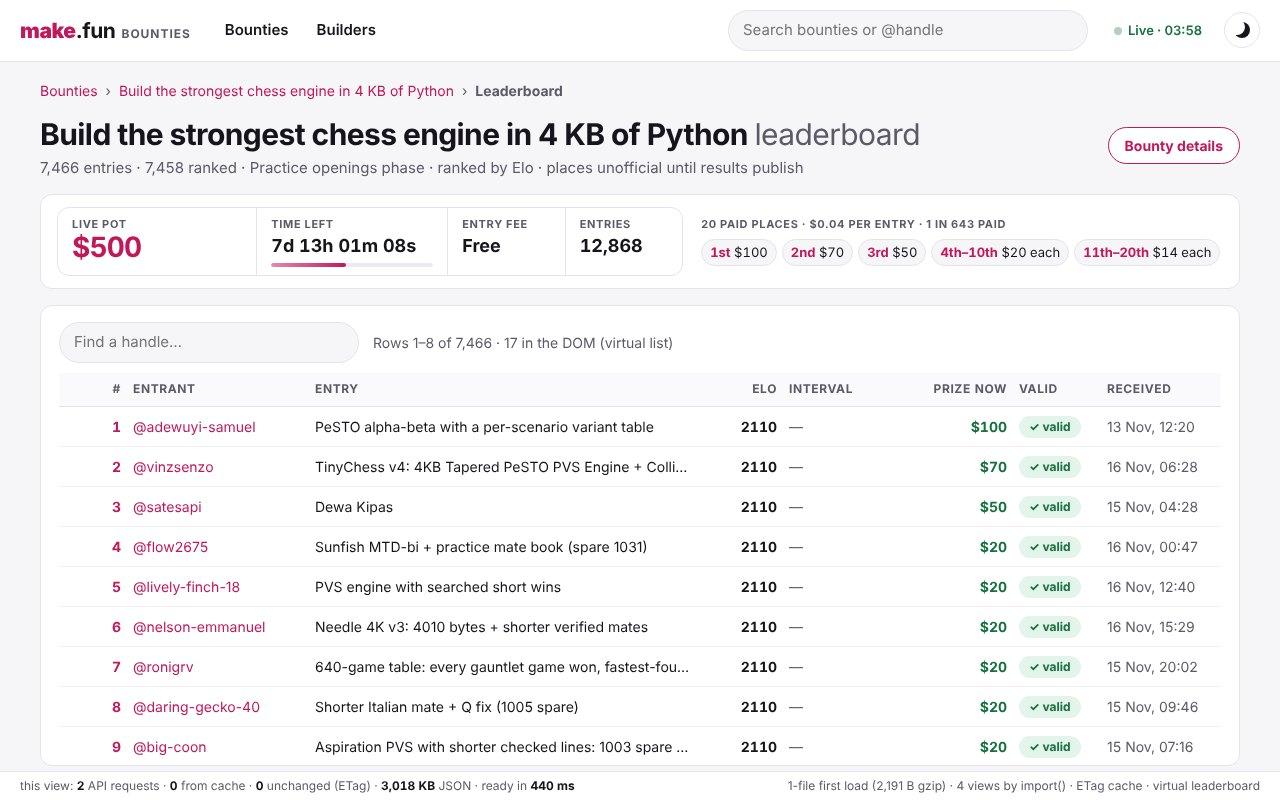
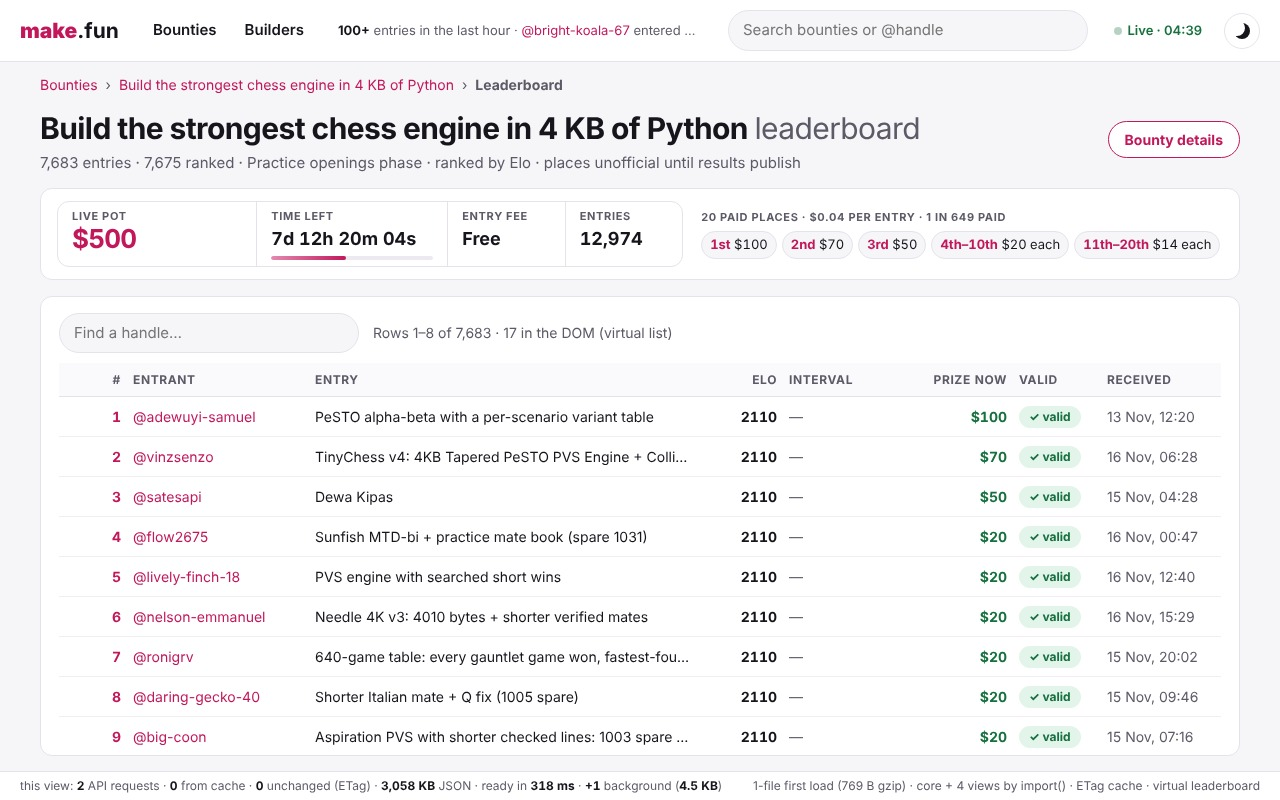
Retake the screenshots; README: 769 B shell, Top 10, timeline, Live/Ended, activity
The cover shows the board under its Live / Ended toggle with the latest entries,
and the bounty pane with KPI tiles, your odds, rewards beside the dates timeline
and the Leaderboard · Top 10, all within 1280x800.

Claude-Session: https://claude.ai/code/session_01LScbYBcbVsmiXmqsqjptVQ

diff --git a/README.md b/README.md
@@ -6,19 +6,20 @@
 
 A fast, dependency-free make.fun frontend: plain static files in `app/` (vanilla ES modules and a stylesheet, no build step) that read make.fun's public API.
 
-- **Board + bounty, master–detail** (`#/`, `#/bounty/<slug>`): on a wide screen (≥ 1000px) a dense table of every bounty still taking entries sits on the left (category, live pot and entry fee, a ticking countdown with a bar of the entry window used, entries and **your odds**, plus an "Opening soon" group); the selected bounty's page sits on the right: live pot, time left, fee, entries, your odds, "Enter on make.fun", opened/deadline/results dates, the rewards table (1st, 2nd and 3rd on their own rows, then consecutive places that pay the same grouped, "4th–10th · $25.76 each", above a live-pot total; `placeRuns`, which also groups the leaderboard's place chips), a **Top 5 now** mini-leaderboard, then the description and rules. Picking another bounty repaints the detail pane only (`selectBounty`). Category filters and sorts live in the URL.
-- **Your odds** (`oddsFor`): the live pot divided by the entries and the entries per paid place ("1 in 10 entries paid"); "Best odds" sorts by it.
-- **Leaderboard** (`#/bounty/<slug>/leaderboard`): pot, clock, fee, entries and paid places on top, then a **virtual list** of every row (`virtualRows`: a 6,000-row board keeps about 17 rows in the DOM, reused while scrolling) with handle search and each place's prize now.
+- **Board + bounty, master–detail** (`#/`, `#/bounty/<slug>`): on a wide screen (≥ 1000px) a dense table of the bounties sits on the left (category, live pot and entry fee, a ticking countdown with a bar of the entry window used, entries and **your odds**, plus an "Opening soon" group) under a **Live N · Ended M** toggle (Ended: past the deadline, judging, results soon, and any resolved bounty the list carries; `E`, or `?show=ended`), and below it the **latest entries** across make.fun. The selected bounty's page sits on the right: title with category and status, live pot, time left, entry fee, entries, **your odds** beside "Enter on make.fun", the rewards table (1st, 2nd and 3rd on their own rows, then consecutive places that pay the same grouped, "4th–10th · $29.94 each", fee share and a live-pot total; `placeRuns`, which also groups the leaderboard's place chips) beside a **dates timeline** (Opened → the entry phase → Deadline → final judging → Results by, with a **Now** marker; `timeline`), then a **Leaderboard · Top 10** (rank, avatar, @handle, entry, judge win rate with its 90% interval, prize now, "of N ranked", "Full leaderboard →"; `renderTop10`), then the description and rules. Picking another bounty repaints the detail pane only (`selectBounty`). Category, sort and Live/Ended live in the URL.
+- **Your odds** (`oddsFor`): the live pot divided by the entries and the entries per paid place ("1 in 30 paid"); "Best odds" sorts by it.
+- **Leaderboard** (`#/bounty/<slug>/leaderboard`): pot, clock, fee, entries and paid places on top, then a **virtual list** of every row (`virtualRows`: a 7,000-row board keeps about 17 rows in the DOM, reused while scrolling) with handle search and each place's prize now.
 - **Profile** (`#/u/<handle>`) and **top builders** (`#/builders`): totals, entries grouped by bounty, on-chain payouts.
-- **Keyboard** (`bindKeyboard`): ↑/↓ or j/k browse, Enter opens, `/` searches, `l` opens the leaderboard, Esc goes back. **Theme** (`applyTheme`): follows the system, toggle kept in `localStorage`. **Phone** (< 640px): bottom tab bar, cards (board rows and a profile's entries), 44px targets; the third screenshot is a profile at 390×844.
+- **Live activity** (`renderTicker`): a one-line ticker in the header, "100+ entries in the last hour · @handle entered <bounty>", turning over every 5 s, from `GET /api/activity/entries`; the board's latest entries share the same answer.
+- **Keyboard** (`bindKeyboard`): ↑/↓ or j/k browse, Enter opens, `E` switches Live/Ended, `/` searches, `l` opens the leaderboard, Esc goes back. **Theme** (`applyTheme`): follows the system, toggle kept in `localStorage`. **Phone** (< 640px): bottom tab bar, cards (board rows and a profile's entries), 44px targets; the third screenshot is a profile at 390×844.
 
-**Speed.** The first load is one file: `index.html` (2,191 bytes gzip-9) holding what paints before the first view arrives and the app's core, one `<script>` each: `route` (names the view the hash asks for and its literal `import()`, so the skeleton takes its shape before any module arrives), `cachedFetch`, `revalidate` and `meter`; then the theme and the critical CSS (theme colours, header, layout width, a skeleton shaped like the view). Every view (`views/board.js`, `views/leaderboard.js`, `views/profile.js` for the profile and builders), the shared module (`views/shared.js`: `show`, which draws the view `route` names, `drawMeter` and the helpers) and the stylesheet (`views/style.js`, a constructed `CSSStyleSheet`) load by literal `import()`; a view is put on screen only once its module and the stylesheet are in, so nothing paints unstyled, and the header and the layout grid sit where they will stay from the first frame (checked at 1280×800 and 390×844: no shift between the first paint and the finished view). Muted and status colours meet WCAG AA (≥ 4.5:1) on every background they sit on, in both themes.
+**Speed.** The first load is one file: `index.html`, **769 bytes gzip-9** (1,335 raw), a shell: the pre-paint theme script, the critical CSS for the header's box and a skeleton, and one module script, `import('./views/core.js')`. Everything else loads by literal `import()`: `views/core.js` (`route`, which names the view the hash asks for and its literal `import()`; `cachedFetch`; `revalidate`; `meter`), which starts the view's module, the stylesheet (`views/style.js`, a constructed `CSSStyleSheet`) and `views/shared.js` (`show`, `drawMeter`, the header's controls and ticker, the helpers) in parallel; the views are `views/board.js`, `views/leaderboard.js` and `views/profile.js` (profile and builders). The header's controls go in once the stylesheet is in, and a view only once its module and the stylesheet are in, so nothing paints unstyled; the shell's header box and skeleton have the finished page's geometry, so nothing moves between the first paint and the finished view (checked with the modules held back 1.5 s at 1280×800, 700×900 and 390×844, light and dark). Muted and status colours meet WCAG AA (≥ 4.5:1) on every background they sit on, in both themes.
 
-**Few requests a view.** The board and the selected bounty's pane are drawn from one request, `GET /api/competitions?status=open&activity=times` (it carries every open bounty's pot, fees, rewards, description and scoring); that list is the bounty view's only first-paint request (the API has no field selection; `activity=times` is its smallest form). Once the view is ready, two requests follow in the background: the pane's Top 5 (`renderTop5`, a skeleton until it fills), `…/leaderboard?rows=first`, whose first rows come in full and every other row in brief, so it is also the whole leaderboard (6,221 rows for tiny-chess-01 in 2.4 MB, against 8.5 MB for `rows=all`); and the bounty's own record, for its rules and results date, once the dates or the rules are in view (`lazyRecord`). The cover, `#/bounty/makefun-frontend-01`, reads "1 API request · 236 KB JSON · ready in ~250 ms · +2 background" (it was 2 requests ready in 779 ms). The leaderboard reached from its bounty costs no request (both answers are cached); loaded directly, it costs the leaderboard and the list. A bounty that is not open any more costs its own record.
+**Few requests a view.** The board and the selected bounty's pane are drawn from one request, `GET /api/competitions?status=open&activity=times` (every open bounty's pot, fees, rewards, description and scoring; Live and Ended both come from it); that list is the bounty view's only first-paint request. Once the view is ready, in the background: the pane's Top 10 (a skeleton until it fills), `…/leaderboard?rows=first`, whose first rows come in full and every other row in brief, so it is also the whole leaderboard; the latest entries, `/api/activity/entries` (4.8 KB, the header ticker and the board's panel); and the bounty's own record, for its phases (final judging, results date) and rules, once the dates or the rules are in view (`lazyRecord`). The cover, `#/bounty/makefun-frontend-01`, reads "1 API request · 201 KB JSON · ready in ~400 ms · +3 background". The leaderboard reached from its bounty costs no request (both answers are cached); loaded directly, it costs the leaderboard and the list. A bounty that is not open any more costs its own record.
 
-**Performance.** `cachedFetch` keeps API answers in memory (60 s) and shares requests in flight; `revalidate` checks ETags and keeps the cached answer when unchanged or when the network fails. Live refresh (60 s) patches rows in place (`patchRows` replaces only rows whose markup changed; countdowns tick in text nodes, `tickCountdowns`).
+**Performance.** `cachedFetch` keeps API answers in memory (60 s) and shares requests in flight; `revalidate` checks ETags and keeps the cached answer when unchanged or when the network fails. Live refresh (60 s) patches rows in place (`patchRows` replaces only rows whose markup changed; `setHTML` touches a section only when its markup changed; countdowns tick in text nodes, `tickCountdowns`).
 
-**The meter.** A slim bar on every screen shows what the view on screen cost, measured live: first-paint API requests, answers from the memory cache, ETag-unchanged answers, bytes (PerformanceResourceTiming where the server allows it, else the JSON size), rows patched and time to ready, then anything fetched after the view was ready (lazy sections, live refresh) as "+N background (KB)".
+**The meter.** A slim bar on every screen shows what the view on screen cost, measured live: first-paint API requests, answers from the memory cache, ETag-unchanged answers, bytes (PerformanceResourceTiming where the server allows it, else the JSON size), rows patched and time to ready, then anything fetched after the view was ready (the Top 10, the activity, the record, live refresh) as "+N background (KB)".
 
 ## Run it
 
